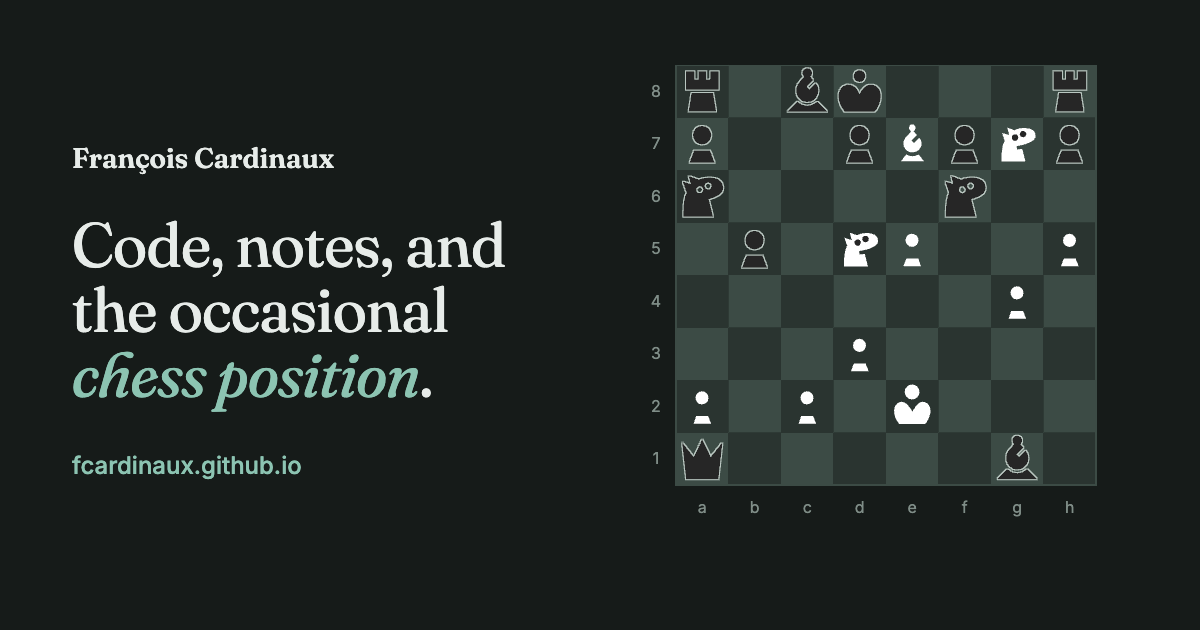
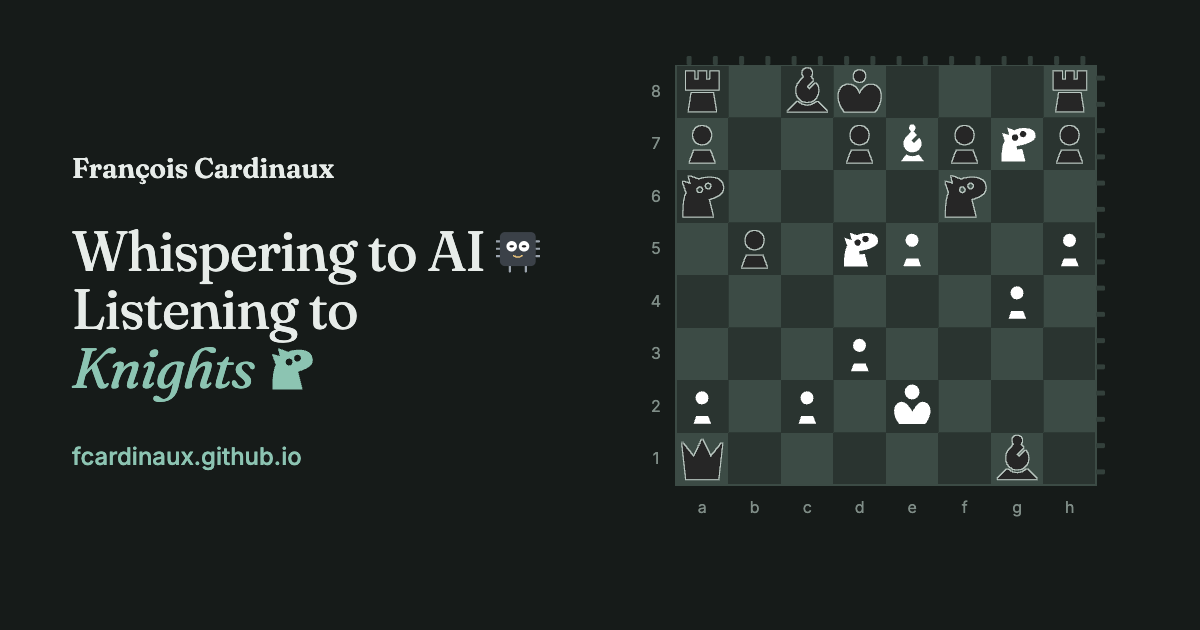
Share card: new title with chip and knight, board with pins

diff --git a/_social/card.html b/_social/card.html
@@ -22,7 +22,7 @@
   body { display: flex; align-items: center; gap: 56px; padding: 0 64px 0 72px; box-sizing: border-box; }
   .text { flex: 1; }
   .name { display: block; font-size: 28px; margin-bottom: 40px; }
-  h1 { font-size: 62px; margin-bottom: 40px; }
+  h1 { font-size: 56px; margin-bottom: 40px; }
   .url { color: var(--accent); font-size: 24px; font-weight: 500; }
   #board { width: 500px; height: 500px; flex: none; }
   /* board.js writes to these; the card does not show them. */
@@ -32,10 +32,30 @@
 <body>
   <div class="text">
     <span class="name">François Cardinaux</span>
-    <h1>Code, notes, and the occasional <em>chess position</em>.</h1>
+    <h1>Whispering to <span class="nw">AI&nbsp;<svg class="h1-chip" viewBox="30 40 140 145" aria-hidden="true"><g stroke="#9aa3ad" stroke-width="7" stroke-linecap="round" fill="none"><path d="M30 80h12M30 104h12M30 128h12M158 80h12M158 104h12M158 128h12M74 160v18M126 160v18"/></g><rect x="42" y="50" width="116" height="110" rx="16" fill="#3b4148"/><circle cx="80" cy="96" r="17" fill="#fff"/><circle cx="120" cy="96" r="17" fill="#fff"/><ellipse cx="80" cy="96" rx="7" ry="8" fill="#1d1d1f"><animate attributeName="ry" dur="6.5s" repeatCount="indefinite" values="8;8;0.6;8;8;0.6;8;0.6;8;8" keyTimes="0;0.36;0.38;0.40;0.72;0.74;0.76;0.78;0.80;1"/></ellipse><ellipse cx="120" cy="96" rx="7" ry="8" fill="#1d1d1f"><animate attributeName="ry" dur="6.5s" repeatCount="indefinite" values="8;8;0.6;8;8;0.6;8;0.6;8;8" keyTimes="0;0.36;0.38;0.40;0.72;0.74;0.76;0.78;0.80;1"/></ellipse><path d="M86 126 q14 11 28 0" fill="none" stroke="#e8c27a" stroke-width="5" stroke-linecap="round"/></svg></span><br>Listening to <span class="nw"><em>Knights</em>&nbsp;<svg class="h1-knight" viewBox="0 0 260 260" aria-hidden="true"><defs><clipPath id="h1knightclip"><path d="M2720 1497h260v260h-260z"/></clipPath></defs><g clip-path="url(#h1knightclip)" transform="matrix(.95 0 0 .95 -2577.325 -1415.625)"><path  fill-rule="evenodd" d="M2837.03 1575.38c-9.78 0-17.71 7.97-17.71 17.79 0 9.83 7.93 17.79 17.71 17.79s17.71-7.96 17.71-17.79c0-9.82-7.93-17.79-17.71-17.79m43.42-19.8c-9.78 0-17.71 7.97-17.71 17.79 0 9.83 7.93 17.79 17.71 17.79s17.71-7.96 17.71-17.79c0-9.82-7.93-17.79-17.71-17.79M2778.77 1521l53.6 19.62 15.12-6.39c9.51-2.64 19.53-4.14 30.07-4.58 42.16-1.77 79.67 10.29 81.41 53.93 1.2 30.01-38.89 49.32-73.65 58.33l-1.76.42 22.81 91.67h-155.06c-.64-28.1-.62-72.16 10.13-109.41l6.87-15.98-20.31-58.53 41.66 13z"/><ellipse class="lid" cx="2837.03" cy="1593.17" rx="23.71" ry="23.79" /><ellipse class="lid" cx="2880.45" cy="1573.37" rx="23.71" ry="23.79" /></g></svg></span></h1>
+    <style>
+      h1 .nw { white-space: nowrap; }
+      h1 .h1-chip { display:inline-block; width:.78em; height:.8em; vertical-align:-.06em; }
+      h1 .h1-knight { display:inline-block; width:.95em; height:.95em; vertical-align:-.12em; fill: var(--accent); }
+      /* Same knight and same eyelids as on the board (kiwen-suwi, credited under the board); here the blink is a CSS loop. */
+      h1 .h1-knight .lid { animation: h1blink 8s ease-in-out infinite; }
+      @keyframes h1blink { 0%, 60%, 64%, 100% { transform: scaleY(0); } 62% { transform: scaleY(1); } }
+      @media (prefers-reduced-motion: reduce) { h1 .h1-knight .lid { animation: none; } }
+    </style>
     <div class="url">fcardinaux.github.io</div>
   </div>
-  <svg id="board" viewBox="0 0 100 100"></svg>
+  <div class="boardbox">
+    <svg id="board" viewBox="0 0 100 100"></svg>
+    <svg class="board-pins" viewBox="0 0 100 100" aria-hidden="true"><rect x="10.125" y="-1.8" width="1.0" height="1.8" rx=".3"/><rect x="15.375" y="-1.8" width="1.0" height="1.8" rx=".3"/><rect x="20.625" y="-1.8" width="1.0" height="1.8" rx=".3"/><rect x="25.875" y="-1.8" width="1.0" height="1.8" rx=".3"/><rect x="31.125" y="-1.8" width="1.0" height="1.8" rx=".3"/><rect x="36.375" y="-1.8" width="1.0" height="1.8" rx=".3"/><rect x="41.625" y="-1.8" width="1.0" height="1.8" rx=".3"/><rect x="46.875" y="-1.8" width="1.0" height="1.8" rx=".3"/><rect x="52.125" y="-1.8" width="1.0" height="1.8" rx=".3"/><rect x="57.375" y="-1.8" width="1.0" height="1.8" rx=".3"/><rect x="62.625" y="-1.8" width="1.0" height="1.8" rx=".3"/><rect x="67.875" y="-1.8" width="1.0" height="1.8" rx=".3"/><rect x="73.125" y="-1.8" width="1.0" height="1.8" rx=".3"/><rect x="78.375" y="-1.8" width="1.0" height="1.8" rx=".3"/><rect x="83.625" y="-1.8" width="1.0" height="1.8" rx=".3"/><rect x="88.875" y="-1.8" width="1.0" height="1.8" rx=".3"/><rect x="92" y="2.125" width="1.8" height="1.0" rx=".3"/><rect x="92" y="7.375" width="1.8" height="1.0" rx=".3"/><rect x="92" y="12.625" width="1.8" height="1.0" rx=".3"/><rect x="92" y="17.875" width="1.8" height="1.0" rx=".3"/><rect x="92" y="23.125" width="1.8" height="1.0" rx=".3"/><rect x="92" y="28.375" width="1.8" height="1.0" rx=".3"/><rect x="92" y="33.625" width="1.8" height="1.0" rx=".3"/><rect x="92" y="38.875" width="1.8" height="1.0" rx=".3"/><rect x="92" y="44.125" width="1.8" height="1.0" rx=".3"/><rect x="92" y="49.375" width="1.8" height="1.0" rx=".3"/><rect x="92" y="54.625" width="1.8" height="1.0" rx=".3"/><rect x="92" y="59.875" width="1.8" height="1.0" rx=".3"/><rect x="92" y="65.125" width="1.8" height="1.0" rx=".3"/><rect x="92" y="70.375" width="1.8" height="1.0" rx=".3"/><rect x="92" y="75.625" width="1.8" height="1.0" rx=".3"/><rect x="92" y="80.875" width="1.8" height="1.0" rx=".3"/></svg>
+  </div>
+    <style>
+      /* Chip pins along the top and right edges of the board: a separate layer, the board itself is unchanged. */
+      .boardbox { position: relative; width: 500px; height: 500px; flex: none; }
+      svg.board-pins { position: absolute; top: 0; left: 0; width: 500px; height: 500px; overflow: visible; pointer-events: none; fill: var(--pin); }
+      :root { --pin: #33403b; }
+      @media (prefers-color-scheme: light) { :root:not([data-theme="dark"]) { --pin: #cfcdc6; } }
+      :root[data-theme="light"] { --pin: #cfcdc6; }
+    </style>
   <span id="caption"></span><a id="lichess"></a><button id="another" type="button"></button>
   <script src="../assets/js/pieces.js"></script>
   <script src="../assets/js/board.js"></script>

diff --git a/_includes/head.html b/_includes/head.html
@@ -12,10 +12,10 @@
   <meta property="og:title" content="{% if page.title %}{{ page.title }}{% else %}{{ site.title }}{% endif %}">
   <meta property="og:description" content="{% if page.excerpt %}{{ page.excerpt | strip_html | strip_newlines | truncate: 155 }}{% else %}{{ site.description }}{% endif %}">
   <meta property="og:url" content="{{ page.url | replace: 'index.html', '' | absolute_url }}">
-  <meta property="og:image" content="{{ '/assets/social.png' | absolute_url }}">
+  <meta property="og:image" content="{{ '/assets/social.png' | absolute_url }}?v=2">
   <meta property="og:image:width" content="1200">
   <meta property="og:image:height" content="630">
-  <meta property="og:image:alt" content="Code, notes, and the occasional chess position — a chess board beside the words">
+  <meta property="og:image:alt" content="Whispering to AI, Listening to Knights — a chess board beside the words">
   <meta name="twitter:card" content="summary_large_image">
   <meta name="twitter:site" content="@{{ site.twitter_username }}">
 
